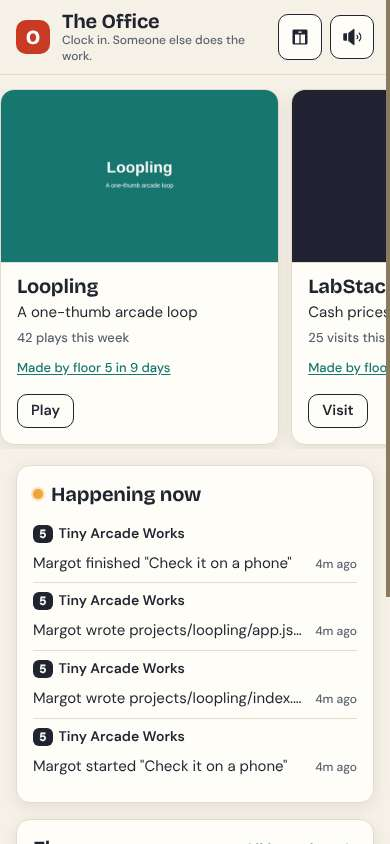
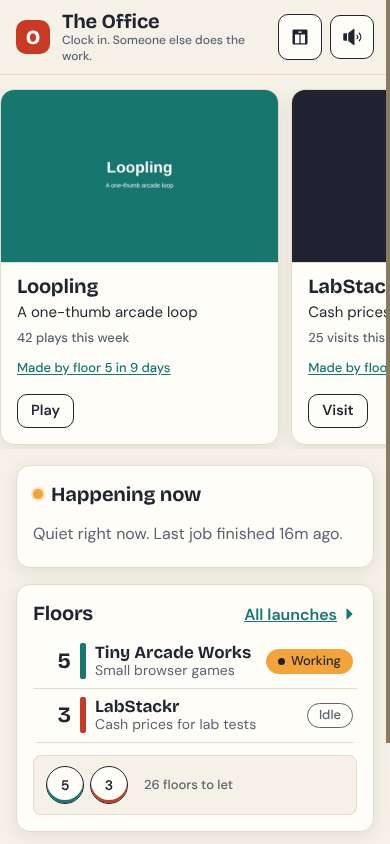
j15 Status card: done (DONE.md, screenshots retaken with visitor pages that carry no boss cookie)
Claude-Session: https://claude.ai/code/session_01JpzevpiyBk2kkTfLP5NuKr

Changed region(s): [[0.0615, 0.6161, 0.9538, 1.0], [0.9846, 0.7085, 1.0, 0.8934]]

diff --git a/docs/redesign/jobs/j15/DONE.md b/docs/redesign/jobs/j15/DONE.md
@@ -1,0 +1,25 @@
+STATUS: GREEN
+JOB: 15 Status card
+DONE MEANS: "A visitor sees state, goal, now, last shipped and next on every open floor."
+  - The floor plaque is now the status card (public/js/status-card.js, drawn into the existing card slot): company and floor number (header),
+    "Run by <boss>", the lane (Game / Website / Business), the state badge (job 2), Goal (the work-mode goal, else the current job's name),
+    Now ("Step 2 of 3: Mina is on Make the second level", the live job card, job 12), Last shipped (screenshot thumbnail, name, how long ago),
+    Next (the next step waiting to start), Visit website and Share. The boss's copy adds the one open question with reply chips (Yes / No /
+    You decide, posted as the answer) and a message box to the manager. The weekly fuel gauge and Approve plan (jobs 20 and 21, on hold) have
+    marked, empty, boss-only places (data-slot="fuel-gauge", data-slot="approve-plan"); nothing is drawn there.
+  - The server adds `status` to every floor snapshot (server/jobcards.js statusFor): lane, goal, now, next, lastShipped, from task, job card,
+    work mode and project rows only, no model call; a visitor's copy has private work taken out (redactor; a private project is never "last
+    shipped"; private jobs read "Working on something private").
+  - Visitors never see Numbers (boss-only tab), money, hours (job 2) or questions (not in a visitor snapshot; the card's question block is
+    the boss's only). A floor with nothing yet: "Just moved in. First job starts soon."
+  - Proof: test/statuscard.test.js: "a visitor gets state, goal, now, last shipped and next on an open floor; never a question, money or
+    hours" (fixture job of 3 steps: lane Game, goal, "Step 2 of 3: ...", next, last shipped with thumbnail; a work-mode goal wins), "private
+    work stays private on the card", "a new floor has nothing yet", and the page source check (fields, boss extras, empty state, the two
+    marked slots, reply chips).
+  Screenshots: docs/redesign/jobs/j15/shots/ (floor visitor and boss, desktop and phone; 0 console errors).
+TESTS: npm test 1729/1730 (the one failure is the IPv6 test, environment). Browser: redesign-shots.mjs 14 shots, 0 console errors.
+DEPLOY NOTES: none (no migration, no env var).
+RISKS: Lane comes from the newest task with a lane (or an active business journey); a floor whose tasks have no lane shows none. Goal falls
+  back to the current job's name when the floor has no work-mode goal. The reply chips send the chip's word as the answer; a question that
+  needs more goes through the message box or the chat. On a phone the full floor page keeps the card in its About sheet; job 16 gives
+  phones a card-first page.
